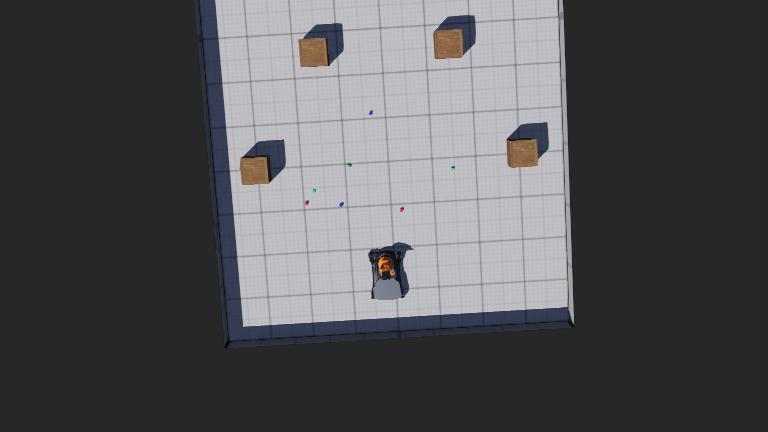
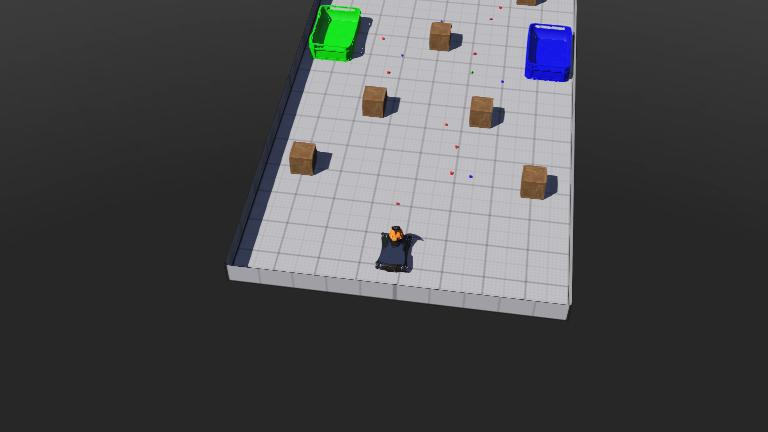
feat: enhance Gripper class with gap management and cube detection; update BlockHandler for improved block picking logic

Changed region(s): [[0.25, 0.0, 0.75, 0.8125]]

diff --git a/IA_20252/controllers/youbot/gripper.py b/IA_20252/controllers/youbot/gripper.py
@@ -16,10 +16,15 @@ limitations under the License.
 Description: Python wrapper for YouBot gripper control
 """
 
-# Gripper positions
-MIN_POS = 0.0
-MAX_POS = 0.025
-OFFSET_WHEN_LOCKED = 0.021
+
+MIN_POS = 0.0      
+MAX_POS = 0.025   
+
+GAP_MIN = 0.0     
+GAP_MAX = 0.05     
+
+# Tamanho do cubo (aresta)
+CUBE_SIZE = 0.003   
 
 def bound(value, min_val, max_val):
     """Clamp value between min and max"""
@@ -27,74 +32,103 @@ def bound(value, min_val, max_val):
 
 class Gripper:
     """Controls the YouBot parallel gripper"""
-    
+
     def __init__(self, robot):
-        """Initialize gripper motors
-        
+        """Initialize gripper motors and sensors
+
         Args:
             robot: Webots Robot instance
         """
         self.robot = robot
         self.time_step = int(robot.getBasicTimeStep())
-        
-        # Get gripper finger motor (single motor controls both fingers)
+
+        # Motor do dedo (controla os dois dedos)
         self.finger = robot.getDevice("finger::left")
-        
-        # Set velocity for position control
+
+        # Encoder linear do dedo
+        self.finger_sensor = robot.getDevice("finger::leftsensor")
+        if self.finger_sensor:
+            self.finger_sensor.enable(self.time_step)
+
+        # Configura velocidade
         if self.finger:
             self.finger.setVelocity(0.03)
         else:
             print("Warning: Could not find gripper motor 'finger::left'")
-        
-        # Current state
-        self.is_gripping = False
-    
+
+        self.is_gripping = False   
+        self.has_cube = False      
+
+    # ---------- comandos básicos ----------
     def grip(self):
-        """Close gripper to grip an object"""
+        """Fecha totalmente a garra (tenta agarrar)"""
         if self.finger:
             self.finger.setPosition(MIN_POS)
         self.is_gripping = True
-    
+        self.has_cube = False  
+
     def release(self):
-        """Open gripper to release an object"""
+        """Abre totalmente a garra (solta qualquer coisa)"""
         if self.finger:
             self.finger.setPosition(MAX_POS)
         self.is_gripping = False
-    
+        self.has_cube = False
+
     def set_gap(self, gap):
         """Set gripper to a specific gap width between fingers
-        
+
         Args:
             gap: desired gap between fingers in meters
         """
-        # Calculate motor position with offset compensation
-        v = bound(0.5 * (gap - OFFSET_WHEN_LOCKED), MIN_POS, MAX_POS)
-        
+        gap = bound(gap, GAP_MIN, GAP_MAX)
+
+        # mapeia gap -> posição do atuador linear (assumindo relação linear)
+        alpha = (gap - GAP_MIN) / (GAP_MAX - GAP_MIN)
+        pos = MIN_POS + alpha * (MAX_POS - MIN_POS)
+        pos = bound(pos, MIN_POS, MAX_POS)
+
         if self.finger:
-            self.finger.setPosition(v)
-        
-        self.is_gripping = (v < MAX_POS / 2)
-    
-    def is_closed(self):
-        """Check if gripper is in closed/gripping state
-        
-        Returns:
-            bool: True if gripper is gripping
-        """
-        return self.is_gripping
-    
-    def current_position(self):
-        """Return the motor position (or None if unavailable)."""
-        if not self.finger:
-            return None
-        try:
-            return float(self.finger.getPosition())
-        except Exception:
-            return None
+            self.finger.setPosition(pos)
+
+        self.is_gripping = (gap <= CUBE_SIZE)  
+       
+
+    # ---------- leitura ----------
+    def current_pos(self):
+        """Posição atual do atuador linear (m)"""
+        if not self.finger_sensor:
+            return MIN_POS
+        return float(self.finger_sensor.getValue())
 
     def current_gap(self):
-        """Return the estimated gap (m) based on motor position, or None."""
-        pos = self.current_position()
-        if pos is None:
-            return None
-        return 2.0 * pos + OFFSET_WHEN_LOCKED
+        """Gap estimado entre os dedos (m)"""
+        pos = self.current_pos()
+        alpha = (pos - MIN_POS) / (MAX_POS - MIN_POS)
+        gap = GAP_MIN + alpha * (GAP_MAX - GAP_MIN)
+        return bound(gap, GAP_MIN, GAP_MAX)
+
+    def check_cube_grasped(self, tol=1e-3):
+        """Atualiza e retorna se o cubo de 3 cm foi realmente pego.
+
+        Lógica:
+          - se depois de fechar o gap final for < CUBE_SIZE => dedos passaram do cubo => não pegou
+          - se gap final >= CUBE_SIZE - tol => dedos travaram no cubo => pegou
+        """
+        gap = self.current_gap()
+        print(CUBE_SIZE - tol)
+        print(gap)
+        if gap < CUBE_SIZE - tol:
+            # conseguiu fechar demais: não travou no cubo
+            self.has_cube = False
+        else:
+            # dedos não conseguiram fechar além do tamanho do cubo
+            self.has_cube = True
+
+        return self.has_cube
+
+    # ---------- estados ----------
+    def is_closed(self):
+        return self.is_gripping
+
+    def has_object(self):
+        return self.has_cube

diff --git a/IA_20252/controllers/youbot/services/block_handler.py b/IA_20252/controllers/youbot/services/block_handler.py
@@ -27,7 +27,6 @@ class BlockHandler:
         print(f"Iniciando pick para bloco {label}...")
         
         # Incrementa o contador
-        self.counter += 1
         
         if self.robo.arm.current_orientation != self.robo.arm.FRONT:
             self.robo.arm.set_orientation(self.robo.arm.FRONT)
@@ -45,27 +44,31 @@ class BlockHandler:
         # Pegar o bloco
         self.robo.gripper.grip()
         self.robo.wait(300)
-        print("Bloco agarrado!")
-        
-        # Levantar
-        self.robo.arm.set_orientation(self.robo.arm.FRONT)
-        self.robo.wait(550)
-        
-        # Vai para a pose de armazenamento
-        self.robo.arm.set_pose(self.counter)
-        self.robo.wait(550)
-        
-        # Soltar o bloco
-        self.robo.gripper.release()
-        self.robo.wait(300)
-        
-        # Registra o bloco na cor correspondente
-        self.blocks_by_color[label].append(self.counter)
-        print(f"Bloco {label} armazenado na posição {self.counter}!")
-        
+        # current gap approx:0.07100000000000001
+        print(self.robo.gripper.check_cube_grasped())
+        if self.robo.gripper.has_object():
+            print("Bloco agarrado!")
+            self.counter+=1
+            # Levantar
+            self.robo.arm.set_orientation(self.robo.arm.FRONT)
+            self.robo.wait(550)
+            
+            # Vai para a pose de armazenamento
+            self.robo.arm.set_pose(self.counter)
+            self.robo.wait(550)
+            
+            # Soltar o bloco
+            self.robo.gripper.release()
+            self.robo.wait(300)
+            
+            # Registra o bloco na cor correspondente
+            self.blocks_by_color[label].append(self.counter)
+            print(f"Bloco {label} armazenado na posição {self.counter}!")
+        else:
+            print("Bloco não pego!")
         self.robo.arm.reset(self.robo.arm.RESET2)
         self.robo.wait(200)
-    
+
     def store(self, label):
         """
         Pega blocos de uma cor específica da base traseira e coloca na caixa
